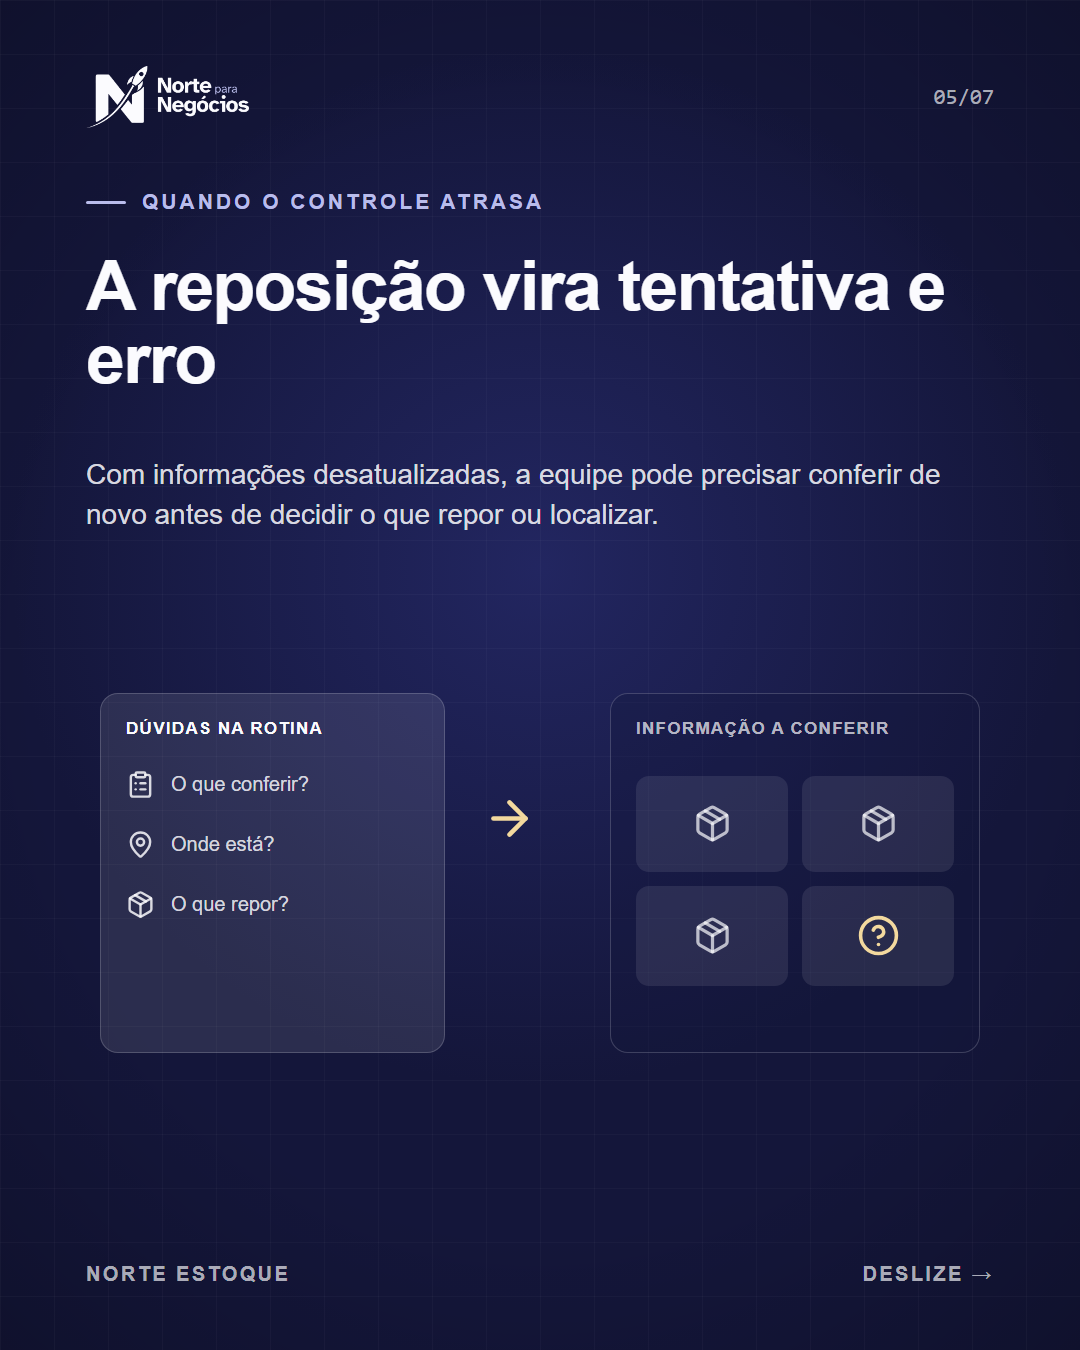
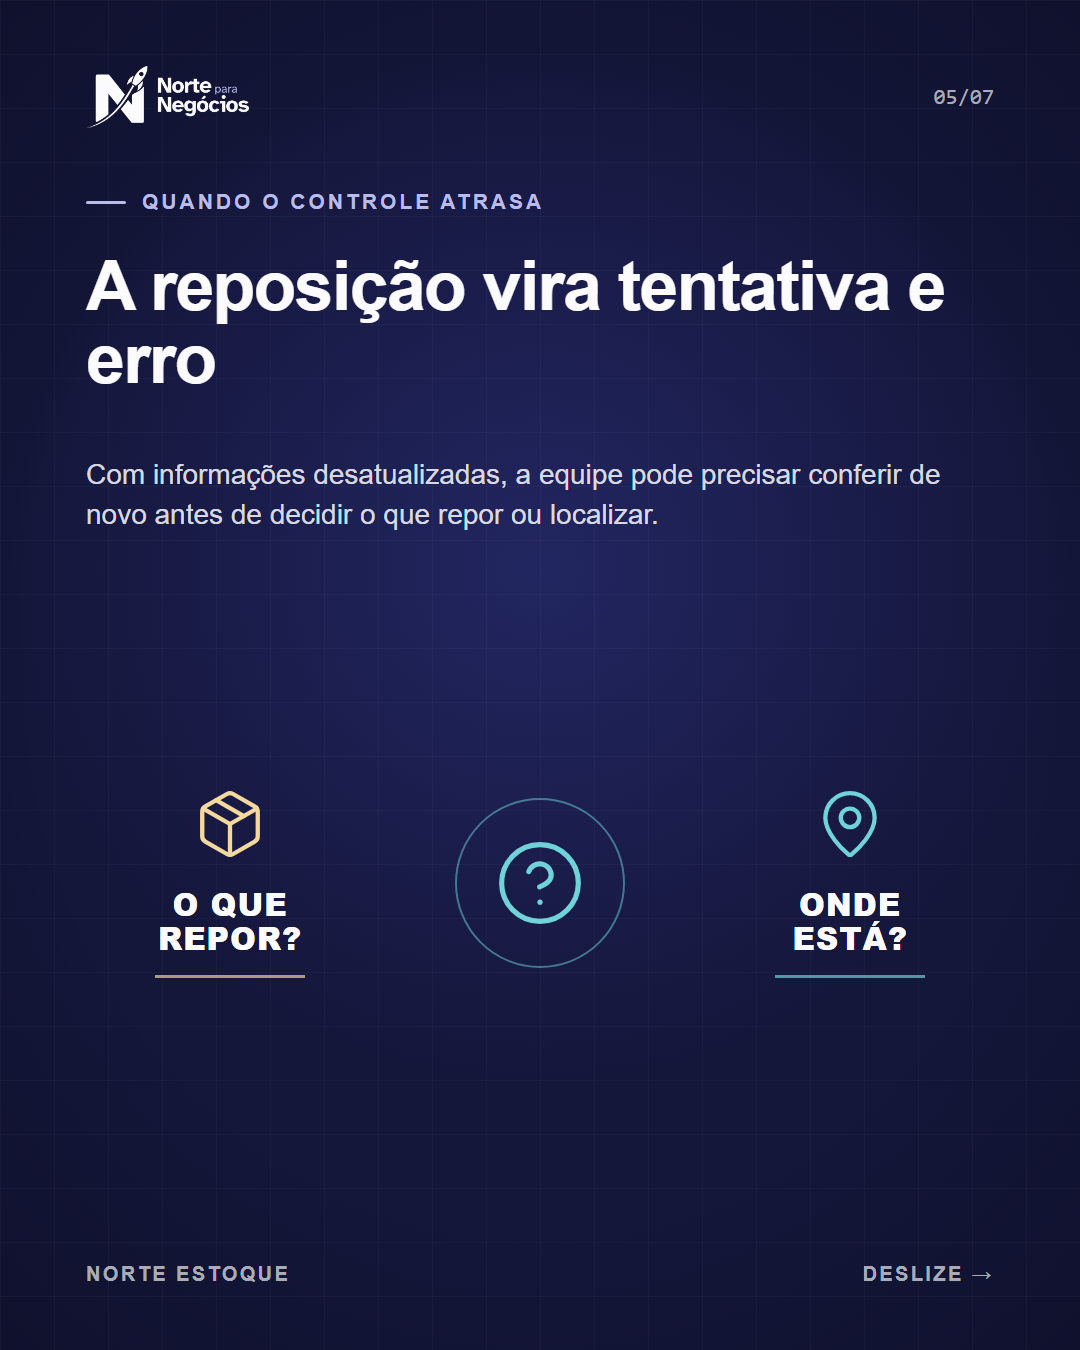
Vary visuals in Norte Estoque diagnostic carousel

diff --git a/src/templates/NorteEstoqueSinais.tsx b/src/templates/NorteEstoqueSinais.tsx
@@ -1,6 +1,6 @@
 import React from 'react';
 import {AbsoluteFill, Img, interpolate, useCurrentFrame} from 'remotion';
-import {ArrowRight, Boxes, CalendarDays, Check, CircleHelp, ClipboardList, MapPin, Package, RefreshCw} from 'lucide-react';
+import {ArrowRight, Boxes, CalendarDays, Check, CircleHelp, ClipboardList, MapPin, Package} from 'lucide-react';
 import {ensurePostLoaded, FONT_POST as SANS, FONT_POST_MONO as MONO} from '../lib/fonts';
 import {Background, Eyebrow, Foot, NAVY, PAD, Produto, Support, Title, Top, WHITE, ease, kit, mute} from '../lib/NortePost';
 
@@ -34,17 +34,27 @@ const Cover: React.FC = () => {
         <Eyebrow tone="product" top={340}>CONTROLE DE ESTOQUE</Eyebrow>
         <Title tone="product" top={398} size={67}>3 sinais de que seu estoque está no improviso</Title>
         <Support tone="product" top={590} width={870} size={30}>Quando a informação não acompanha a rotina, conferir e decidir fica mais difícil.</Support>
-        <div data-illustration="stock-overview" style={{position: 'absolute', left: 110, top: 795, width: 860, height: 330, display: 'flex', alignItems: 'center', justifyContent: 'space-between'}}>
-          <div style={{width: 320, height: 250, boxSizing: 'border-box', padding: 26, borderRadius: 22, background: 'rgba(251,251,254,.12)', border: '1px solid rgba(251,251,254,.23)', display: 'flex', flexDirection: 'column', justifyContent: 'space-between'}}>
-            <div style={{fontFamily: SANS, fontWeight: 700, fontSize: 18, letterSpacing: 2, color: 'rgba(251,251,254,.78)'}}>CONTROLE</div>
-            {[0, 1, 2].map((i) => <div key={i} style={{display: 'flex', alignItems: 'center', gap: 16}}><span style={{width: 16, height: 16, borderRadius: 99, background: '#70D3DA'}} /><PaperLine width={180} color="rgba(251,251,254,.6)" /></div>)}
-          </div>
-          <div style={{display: 'grid', placeItems: 'center', color: 'rgba(251,251,254,.78)'}}><RefreshCw size={54} strokeWidth={1.7} /></div>
-          <div style={{width: 320, height: 250, boxSizing: 'border-box', padding: 26, borderRadius: 22, background: 'rgba(20,22,58,.30)', border: '1px solid rgba(251,251,254,.23)', display: 'flex', flexDirection: 'column', justifyContent: 'space-between'}}>
-            <div style={{fontFamily: SANS, fontWeight: 700, fontSize: 18, letterSpacing: 2, color: 'rgba(251,251,254,.78)'}}>ESTOQUE FÍSICO</div>
-            <div style={{display: 'flex', gap: 18, justifyContent: 'center', color: '#F3D99E'}}><Package size={68} strokeWidth={1.5} /><Boxes size={68} strokeWidth={1.5} /></div>
-            <div style={{display: 'flex', gap: 12}}><PaperLine width={110} color="rgba(251,251,254,.5)" /><PaperLine width={95} color="rgba(251,251,254,.28)" /></div>
-          </div>
+        <div data-illustration="stock-signal-shelf" style={{position: 'absolute', left: 110, top: 790, width: 860, height: 350}}>
+          <svg width="860" height="350" viewBox="0 0 860 350" fill="none" xmlns="http://www.w3.org/2000/svg" aria-label="Prateleira de estoque com três sinais de atenção">
+            <path d="M74 310H786" stroke="rgba(251,251,254,.25)" strokeWidth="2" />
+            <path d="M177 104V302M683 104V302M177 177H683M177 251H683" stroke="rgba(251,251,254,.78)" strokeWidth="9" strokeLinecap="round" />
+            <path d="M188 184H672M188 258H672" stroke="rgba(251,251,254,.32)" strokeWidth="2" />
+            <g fill="#F3D99E" stroke="rgba(251,251,254,.9)" strokeWidth="3" strokeLinejoin="round">
+              <path d="M219 128H302V170H219Z"/><path d="M315 119H391V170H315Z"/>
+              <path d="M493 126H569V170H493Z"/><path d="M580 116H650V170H580Z"/>
+              <path d="M205 202H276V244H205Z"/><path d="M289 195H379V244H289Z"/>
+              <path d="M405 199H478V244H405Z"/><path d="M500 195H573V244H500Z"/><path d="M587 203H660V244H587Z"/>
+            </g>
+            <g stroke="#168E9A" strokeWidth="2" strokeDasharray="5 7" opacity=".9">
+              <path d="M254 75V112"/><path d="M430 75V111"/><path d="M606 75V108"/>
+            </g>
+            <g fontFamily={SANS} fontWeight="700" textAnchor="middle">
+              <circle cx="254" cy="49" r="27" fill="#F3D99E"/><text x="254" y="56" fontSize="18" fill="#14163A">01</text>
+              <circle cx="430" cy="49" r="27" fill="#70D3DA"/><text x="430" y="56" fontSize="18" fill="#14163A">02</text>
+              <circle cx="606" cy="49" r="27" fill="#F3D99E"/><text x="606" y="56" fontSize="18" fill="#14163A">03</text>
+            </g>
+            <path d="M383 177H487" stroke="#70D3DA" strokeWidth="4" strokeDasharray="8 8" />
+          </svg>
         </div>
         <Foot tone="product" label="Norte Estoque" />
       </AbsoluteFill>
@@ -127,18 +137,21 @@ const SinalMovimentacaoAnimada: React.FC = () => <MovimentacaoScene f={useCurren
 
 const DecisaoScene: React.FC = () => (
   <Slide n={5} tone="dark" eyebrow="QUANDO O CONTROLE ATRASA" title="A reposição vira tentativa e erro" support="Com informações desatualizadas, a equipe pode precisar conferir de novo antes de decidir o que repor ou localizar." supportTop={455}>
-    <div data-illustration="stock-decisions" style={{position: 'absolute', left: 100, top: 635, width: 880, height: 475, display: 'flex', alignItems: 'center', justifyContent: 'space-between'}}>
-      <div style={{width: 345, height: 360, borderRadius: 18, padding: 25, boxSizing: 'border-box', background: 'rgba(251,251,254,.1)', border: '1px solid rgba(251,251,254,.19)'}}>
-        <div style={{fontFamily: SANS, fontSize: 17, fontWeight: 700, letterSpacing: 1.3, color: WHITE}}>DÚVIDAS NA ROTINA</div>
-        {[['O que conferir?', ClipboardList], ['Onde está?', MapPin], ['O que repor?', Package]].map(([label, Icon]) => <div key={label as string} style={{display: 'flex', alignItems: 'center', gap: 16, marginTop: 31, color: 'rgba(251,251,254,.84)'}}><Icon size={29} /><span style={{fontFamily: SANS, fontSize: 20}}>{label as string}</span></div>)}
+    <div data-illustration="replenishment-decision-path" style={{position: 'absolute', left: 100, top: 690, width: 880, height: 385, display: 'flex', alignItems: 'center', justifyContent: 'space-between'}}>
+      <div style={{width: 260, textAlign: 'center', color: WHITE}}>
+        <Package size={74} strokeWidth={1.4} color="#F3D99E" />
+        <div style={{marginTop: 22, fontFamily: SANS, fontSize: 31, lineHeight: 1.1, fontWeight: 800, letterSpacing: 1}}>O QUE<br />REPOR?</div>
+        <div style={{margin: '20px auto 0', width: 150, height: 3, background: 'rgba(243,217,158,.68)'}} />
       </div>
-      <div style={{width: 370, height: 360, position: 'relative', borderRadius: 18, padding: 25, boxSizing: 'border-box', background: 'rgba(20,22,58,.3)', border: '1px solid rgba(251,251,254,.19)'}}>
-        <div style={{fontFamily: SANS, fontSize: 17, fontWeight: 700, letterSpacing: 1.3, color: 'rgba(251,251,254,.7)'}}>INFORMAÇÃO A CONFERIR</div>
-        <div style={{position: 'absolute', left: 25, right: 25, top: 82, height: 210, display: 'grid', gridTemplateColumns: '1fr 1fr', gap: 14}}>
-          {[0, 1, 2, 3].map((i) => <div key={i} style={{borderRadius: 13, background: 'rgba(251,251,254,.09)', display: 'grid', placeItems: 'center', color: i === 3 ? '#F3D99E' : 'rgba(251,251,254,.7)'}}>{i === 3 ? <CircleHelp size={43} /> : <Package size={39} />}</div>)}
-        </div>
+      <div style={{position: 'relative', display: 'grid', placeItems: 'center', width: 170, height: 170, color: '#70D3DA'}}>
+        <div style={{position: 'absolute', inset: 0, border: '2px solid rgba(112,211,218,.5)', borderRadius: '50%'}} />
+        <CircleHelp size={92} strokeWidth={1.35} />
       </div>
-      <div style={{position: 'absolute', left: 382, top: 156, color: '#F3D99E'}}><ArrowRight size={55} /></div>
+      <div style={{width: 260, textAlign: 'center', color: WHITE}}>
+        <MapPin size={74} strokeWidth={1.4} color="#70D3DA" />
+        <div style={{marginTop: 22, fontFamily: SANS, fontSize: 31, lineHeight: 1.1, fontWeight: 800, letterSpacing: 1}}>ONDE<br />ESTÁ?</div>
+        <div style={{margin: '20px auto 0', width: 150, height: 3, background: 'rgba(112,211,218,.68)'}} />
+      </div>
     </div>
   </Slide>
 );
